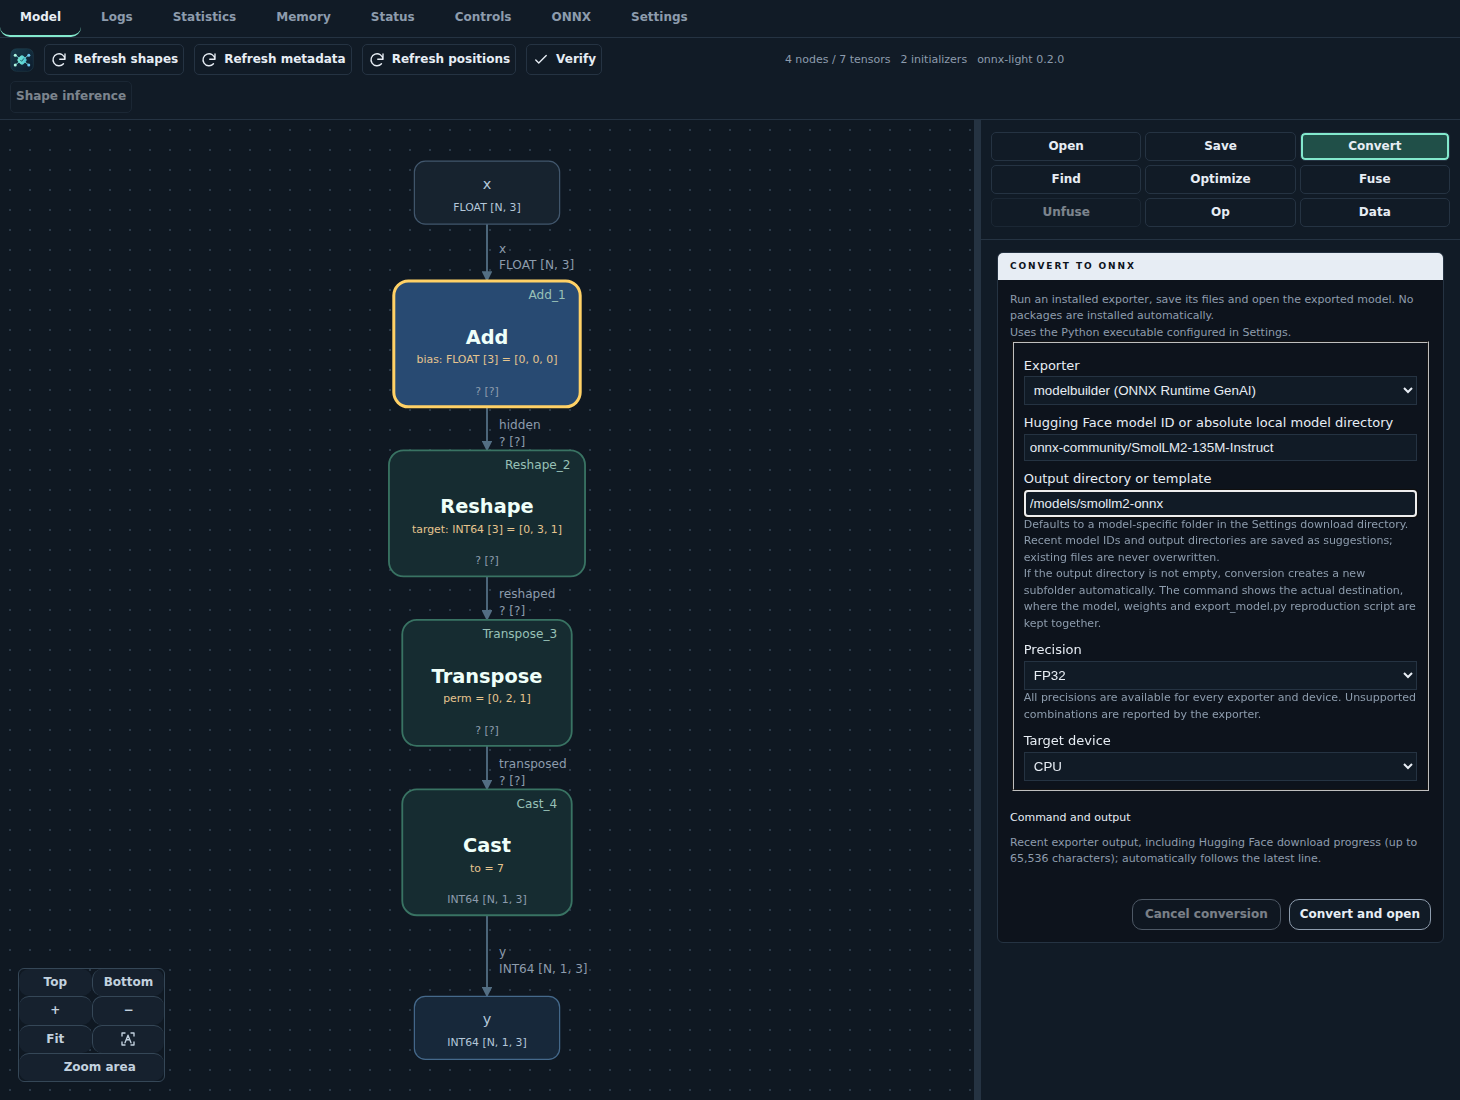
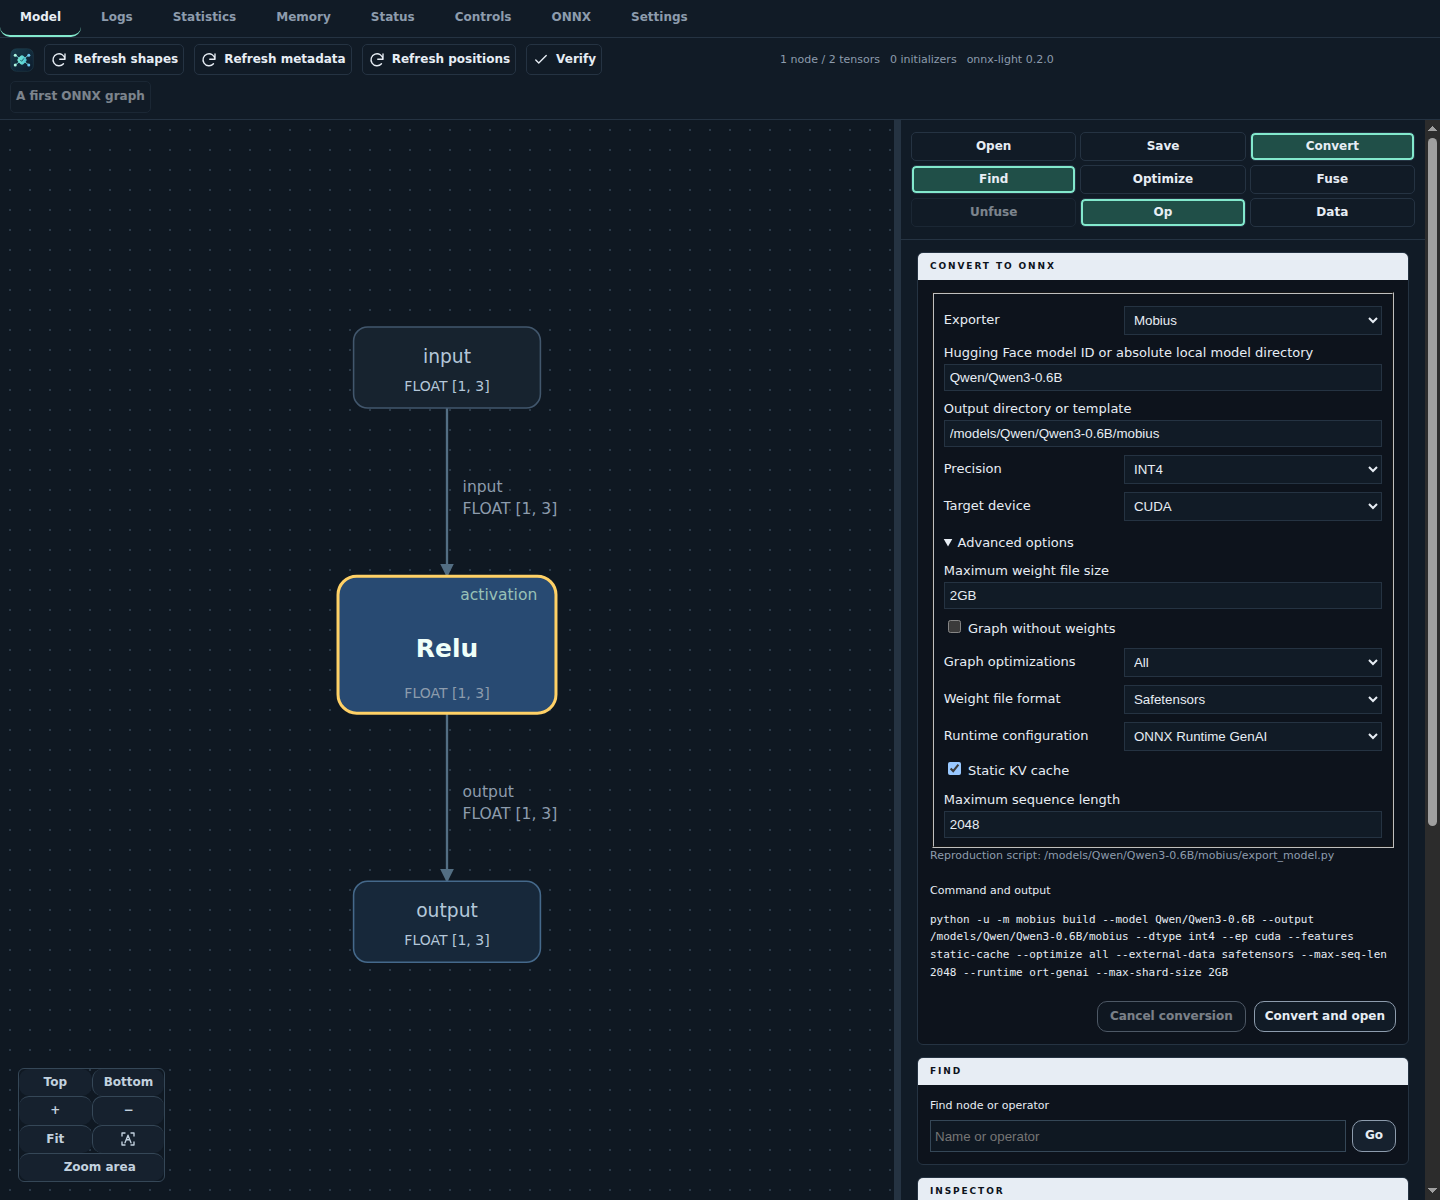
Align exporter dropdown labels and simplify Olive name
Keep dropdown labels and controls on one shared row for all Convert exporters, including narrow sidebars, and refresh Mobius and Olive screenshots.

diff --git a/src/webview.ts b/src/webview.ts
@@ -86,11 +86,15 @@ export function webviewHtml(
             <p id="export-trust" hidden>Trust this workspace before running an exporter.</p>
             <form id="export-form">
               <fieldset id="export-fields">
-                <label for="export-tool">Exporter</label>
-                <select id="export-tool"><option value="modelbuilder">modelbuilder (ONNX Runtime GenAI)</option><option value="mobius">Mobius</option><option value="olive">Olive (export and quantization)</option><option value="olive-recipes">Olive recipes (model export workflows)</option><option value="mbext">mbext (fast export)</option></select>
+                <div class="export-field">
+                  <label for="export-tool">Exporter</label>
+                  <select id="export-tool"><option value="modelbuilder">modelbuilder (ONNX Runtime GenAI)</option><option value="mobius">Mobius</option><option value="olive">Olive</option><option value="olive-recipes">Olive recipes (model export workflows)</option><option value="mbext">mbext (fast export)</option></select>
+                </div>
                 <div id="export-olive-options" class="export-option" hidden>
-                  <label for="export-olive-workflow">Olive workflow</label>
-                  <select id="export-olive-workflow" disabled><option value="optimize">Export checkpoint / optimize ONNX</option><option value="quantize">Quantize existing ONNX (CPU, offline)</option></select>
+                  <div class="export-field">
+                    <label for="export-olive-workflow">Olive workflow</label>
+                    <select id="export-olive-workflow" disabled><option value="optimize">Export checkpoint / optimize ONNX</option><option value="quantize">Quantize existing ONNX (CPU, offline)</option></select>
+                  </div>
                   <p>Export accepts a Hugging Face ID or local checkpoint and produces ONNX. Olive may download calibration data; install its dependencies in Settings' Python environment first.</p>
                 </div>
                 <div id="export-source-options" class="export-option">
@@ -98,12 +102,16 @@ export function webviewHtml(
                 <input id="export-source" required placeholder="Qwen/Qwen3-0.6B" autocomplete="off" list="export-source-history"><datalist id="export-source-history"></datalist>
                 </div>
                 <div id="export-olive-quantization" class="export-option" hidden>
-                  <label for="export-olive-precision">Quantization precision (CPU, RTN)</label>
-                  <select id="export-olive-precision" disabled><option value="int4">INT4 (Olive)</option><option value="int8">INT8 (ONNX Runtime dynamic)</option></select>
+                  <div class="export-field">
+                    <label for="export-olive-precision">Quantization precision (CPU, RTN)</label>
+                    <select id="export-olive-precision" disabled><option value="int4">INT4 (Olive)</option><option value="int8">INT8 (ONNX Runtime dynamic)</option></select>
+                  </div>
                 </div>
                 <div id="export-recipe-options" hidden>
-                  <label for="export-recipe">Olive recipe</label>
-                  <select id="export-recipe" disabled required><option value="">Load the recipe list</option></select>
+                  <div class="export-field">
+                    <label for="export-recipe">Olive recipe</label>
+                    <select id="export-recipe" disabled required><option value="">Load the recipe list</option></select>
+                  </div>
                   <button id="export-recipe-refresh" type="button">Refresh recipes</button>
                   <p id="export-recipe-status" role="status"></p>
                   <p id="export-recipe-details"></p>
@@ -113,10 +121,14 @@ export function webviewHtml(
                 <label for="export-directory">Output directory or template</label>
                 <input id="export-directory" required placeholder="/path/to/new-export" autocomplete="off" list="export-directory-history"><datalist id="export-directory-history"></datalist>
                 <div id="export-target-options" class="export-option">
-                <label for="export-precision">Precision</label>
-                <select id="export-precision"><option value="fp32">FP32</option><option value="fp16">FP16</option><option value="bf16">BF16</option><option value="int4">INT4</option><option value="int8" hidden disabled>INT8</option><option value="int2">INT2</option><option value="fp4">FP4</option></select>
-                <label for="export-provider">Target device</label>
-                <select id="export-provider"><option value="cpu">CPU</option><option value="cuda">CUDA</option></select>
+                  <div class="export-field">
+                    <label for="export-precision">Precision</label>
+                    <select id="export-precision"><option value="fp32">FP32</option><option value="fp16">FP16</option><option value="bf16">BF16</option><option value="int4">INT4</option><option value="int8" hidden disabled>INT8</option><option value="int2">INT2</option><option value="fp4">FP4</option></select>
+                  </div>
+                  <div class="export-field">
+                    <label for="export-provider">Target device</label>
+                    <select id="export-provider"><option value="cpu">CPU</option><option value="cuda">CUDA</option></select>
+                  </div>
                 </div>
                 <details id="export-advanced" class="export-advanced">
                   <summary>Advanced options</summary>
@@ -133,8 +145,10 @@ export function webviewHtml(
                     <label><input id="export-prune-lm-head" type="checkbox" data-export-option="pruneLmHead" disabled> Last-token logits only</label>
                   </div>
                   <div class="export-option" data-exporters="olive" data-olive-workflows="optimize" hidden>
-                    <label for="export-olive-exporter">ONNX exporter</label>
-                    <select id="export-olive-exporter" data-export-option="oliveExporter" disabled><option value="">Olive default (model builder)</option><option value="model_builder">Model builder</option><option value="dynamo_exporter">PyTorch Dynamo</option><option value="torchscript_exporter">PyTorch TorchScript</option></select>
+                    <div class="export-field">
+                      <label for="export-olive-exporter">ONNX exporter</label>
+                      <select id="export-olive-exporter" data-export-option="oliveExporter" disabled><option value="">Olive default (model builder)</option><option value="model_builder">Model builder</option><option value="dynamo_exporter">PyTorch Dynamo</option><option value="torchscript_exporter">PyTorch TorchScript</option></select>
+                    </div>
                     <label for="export-olive-task">Hugging Face task</label>
                     <input id="export-olive-task" placeholder="Olive default" list="export-olive-tasks" data-export-option="task" disabled>
                     <datalist id="export-olive-tasks"><option value="text-generation-with-past"><option value="text-generation"><option value="text-classification"><option value="feature-extraction"></datalist>
@@ -148,12 +162,16 @@ export function webviewHtml(
                     <label><input id="export-use-qdq" type="checkbox" data-export-option="useQdq" disabled> Q/DQ quantization</label>
                   </div>
                   <div class="export-option" data-exporters="mbext modelbuilder olive" data-precisions="int4" data-olive-workflows="optimize" hidden>
-                    <label for="export-block-size">Quantization block size</label>
-                    <select id="export-block-size" data-export-option="blockSize" data-number disabled><option value="">Exporter default</option><option>16</option><option>32</option><option>64</option><option>128</option><option>256</option></select>
+                    <div class="export-field">
+                      <label for="export-block-size">Quantization block size</label>
+                      <select id="export-block-size" data-export-option="blockSize" data-number disabled><option value="">Exporter default</option><option>16</option><option>32</option><option>64</option><option>128</option><option>256</option></select>
+                    </div>
                   </div>
                   <div class="export-option" data-exporters="mbext modelbuilder" data-precisions="int4" hidden>
-                    <label for="export-quantization-algorithm">Quantization algorithm</label>
-                    <select id="export-quantization-algorithm" data-export-option="quantizationAlgorithm" disabled><option value="">Exporter default</option><option value="rtn">RTN</option><option value="rtn_last">RTN, INT8 last MatMul</option><option value="k_quant">K-quant</option><option value="k_quant_mixed">K-quant mixed</option><option value="k_quant_last">K-quant, INT8 last MatMul</option></select>
+                    <div class="export-field">
+                      <label for="export-quantization-algorithm">Quantization algorithm</label>
+                      <select id="export-quantization-algorithm" data-export-option="quantizationAlgorithm" disabled><option value="">Exporter default</option><option value="rtn">RTN</option><option value="rtn_last">RTN, INT8 last MatMul</option><option value="k_quant">K-quant</option><option value="k_quant_mixed">K-quant mixed</option><option value="k_quant_last">K-quant, INT8 last MatMul</option></select>
+                    </div>
                   </div>
                   <div class="export-option" data-exporters="mbext" hidden>
                     <label for="export-opset">ONNX opset</label>
@@ -165,12 +183,18 @@ export function webviewHtml(
                   </div>
                   <div class="export-option" data-exporters="mobius" hidden>
                     <label><input id="export-no-weights" type="checkbox" data-export-option="noWeights" disabled> Graph without weights</label>
-                    <label for="export-optimize">Graph optimizations</label>
-                    <select id="export-optimize" data-export-option="optimize" disabled><option value="">Exporter default</option><option value="all">All</option><option value="group_query_attention">Group Query Attention</option><option value="packed_attention">Packed Attention</option><option value="skip_norm">Skip normalization</option></select>
-                    <label for="export-external-data">Weight file format</label>
-                    <select id="export-external-data" data-export-option="externalData" disabled><option value="">Exporter default</option><option value="onnx">ONNX external data</option><option value="safetensors">Safetensors</option></select>
-                    <label for="export-runtime">Runtime configuration</label>
-                    <select id="export-runtime" data-export-option="runtime" disabled><option value="">None</option><option value="ort-genai">ONNX Runtime GenAI</option><option value="onnx-genai">ONNX GenAI</option></select>
+                    <div class="export-field">
+                      <label for="export-optimize">Graph optimizations</label>
+                      <select id="export-optimize" data-export-option="optimize" disabled><option value="">Exporter default</option><option value="all">All</option><option value="group_query_attention">Group Query Attention</option><option value="packed_attention">Packed Attention</option><option value="skip_norm">Skip normalization</option></select>
+                    </div>
+                    <div class="export-field">
+                      <label for="export-external-data">Weight file format</label>
+                      <select id="export-external-data" data-export-option="externalData" disabled><option value="">Exporter default</option><option value="onnx">ONNX external data</option><option value="safetensors">Safetensors</option></select>
+                    </div>
+                    <div class="export-field">
+                      <label for="export-runtime">Runtime configuration</label>
+                      <select id="export-runtime" data-export-option="runtime" disabled><option value="">None</option><option value="ort-genai">ONNX Runtime GenAI</option><option value="onnx-genai">ONNX GenAI</option></select>
+                    </div>
                     <label><input id="export-static-cache" type="checkbox" data-export-option="staticCache" disabled> Static KV cache</label>
                   </div>
                   <div class="export-option" data-exporters="mobius" data-requires="export-static-cache" hidden>

diff --git a/media/viewer.css b/media/viewer.css
@@ -1236,6 +1236,16 @@ button:disabled {
 .export-advanced > summary {
   cursor: pointer;
 }
+.export-field {
+  display: grid;
+  grid-template-columns: minmax(0, 2fr) minmax(0, 3fr);
+  align-items: center;
+  gap: 8px;
+  margin-top: 8px;
+}
+.export-field > label {
+  overflow-wrap: anywhere;
+}
 #export-timings {
   width: 100%;
   margin: 8px 0 16px;

diff --git a/docs/features/exporting_models.rst b/docs/features/exporting_models.rst
@@ -59,7 +59,7 @@ Olive and Olive recipes
 Both use the ``olive-ai`` Python package (``python -m olive``), but have distinct
 controls:
 
-* **Olive (export and quantization):** defaults to **Export checkpoint /
+* **Olive:** defaults to **Export checkpoint /
   optimize ONNX**. Enter a Hugging Face ID (for example
   ``Qwen/Qwen3-0.6B``), an absolute local checkpoint directory or an ONNX file.
   Select **FP32**, **FP16**, **BF16**, **INT4** or **INT8**, and **CPU** or **CUDA**.
